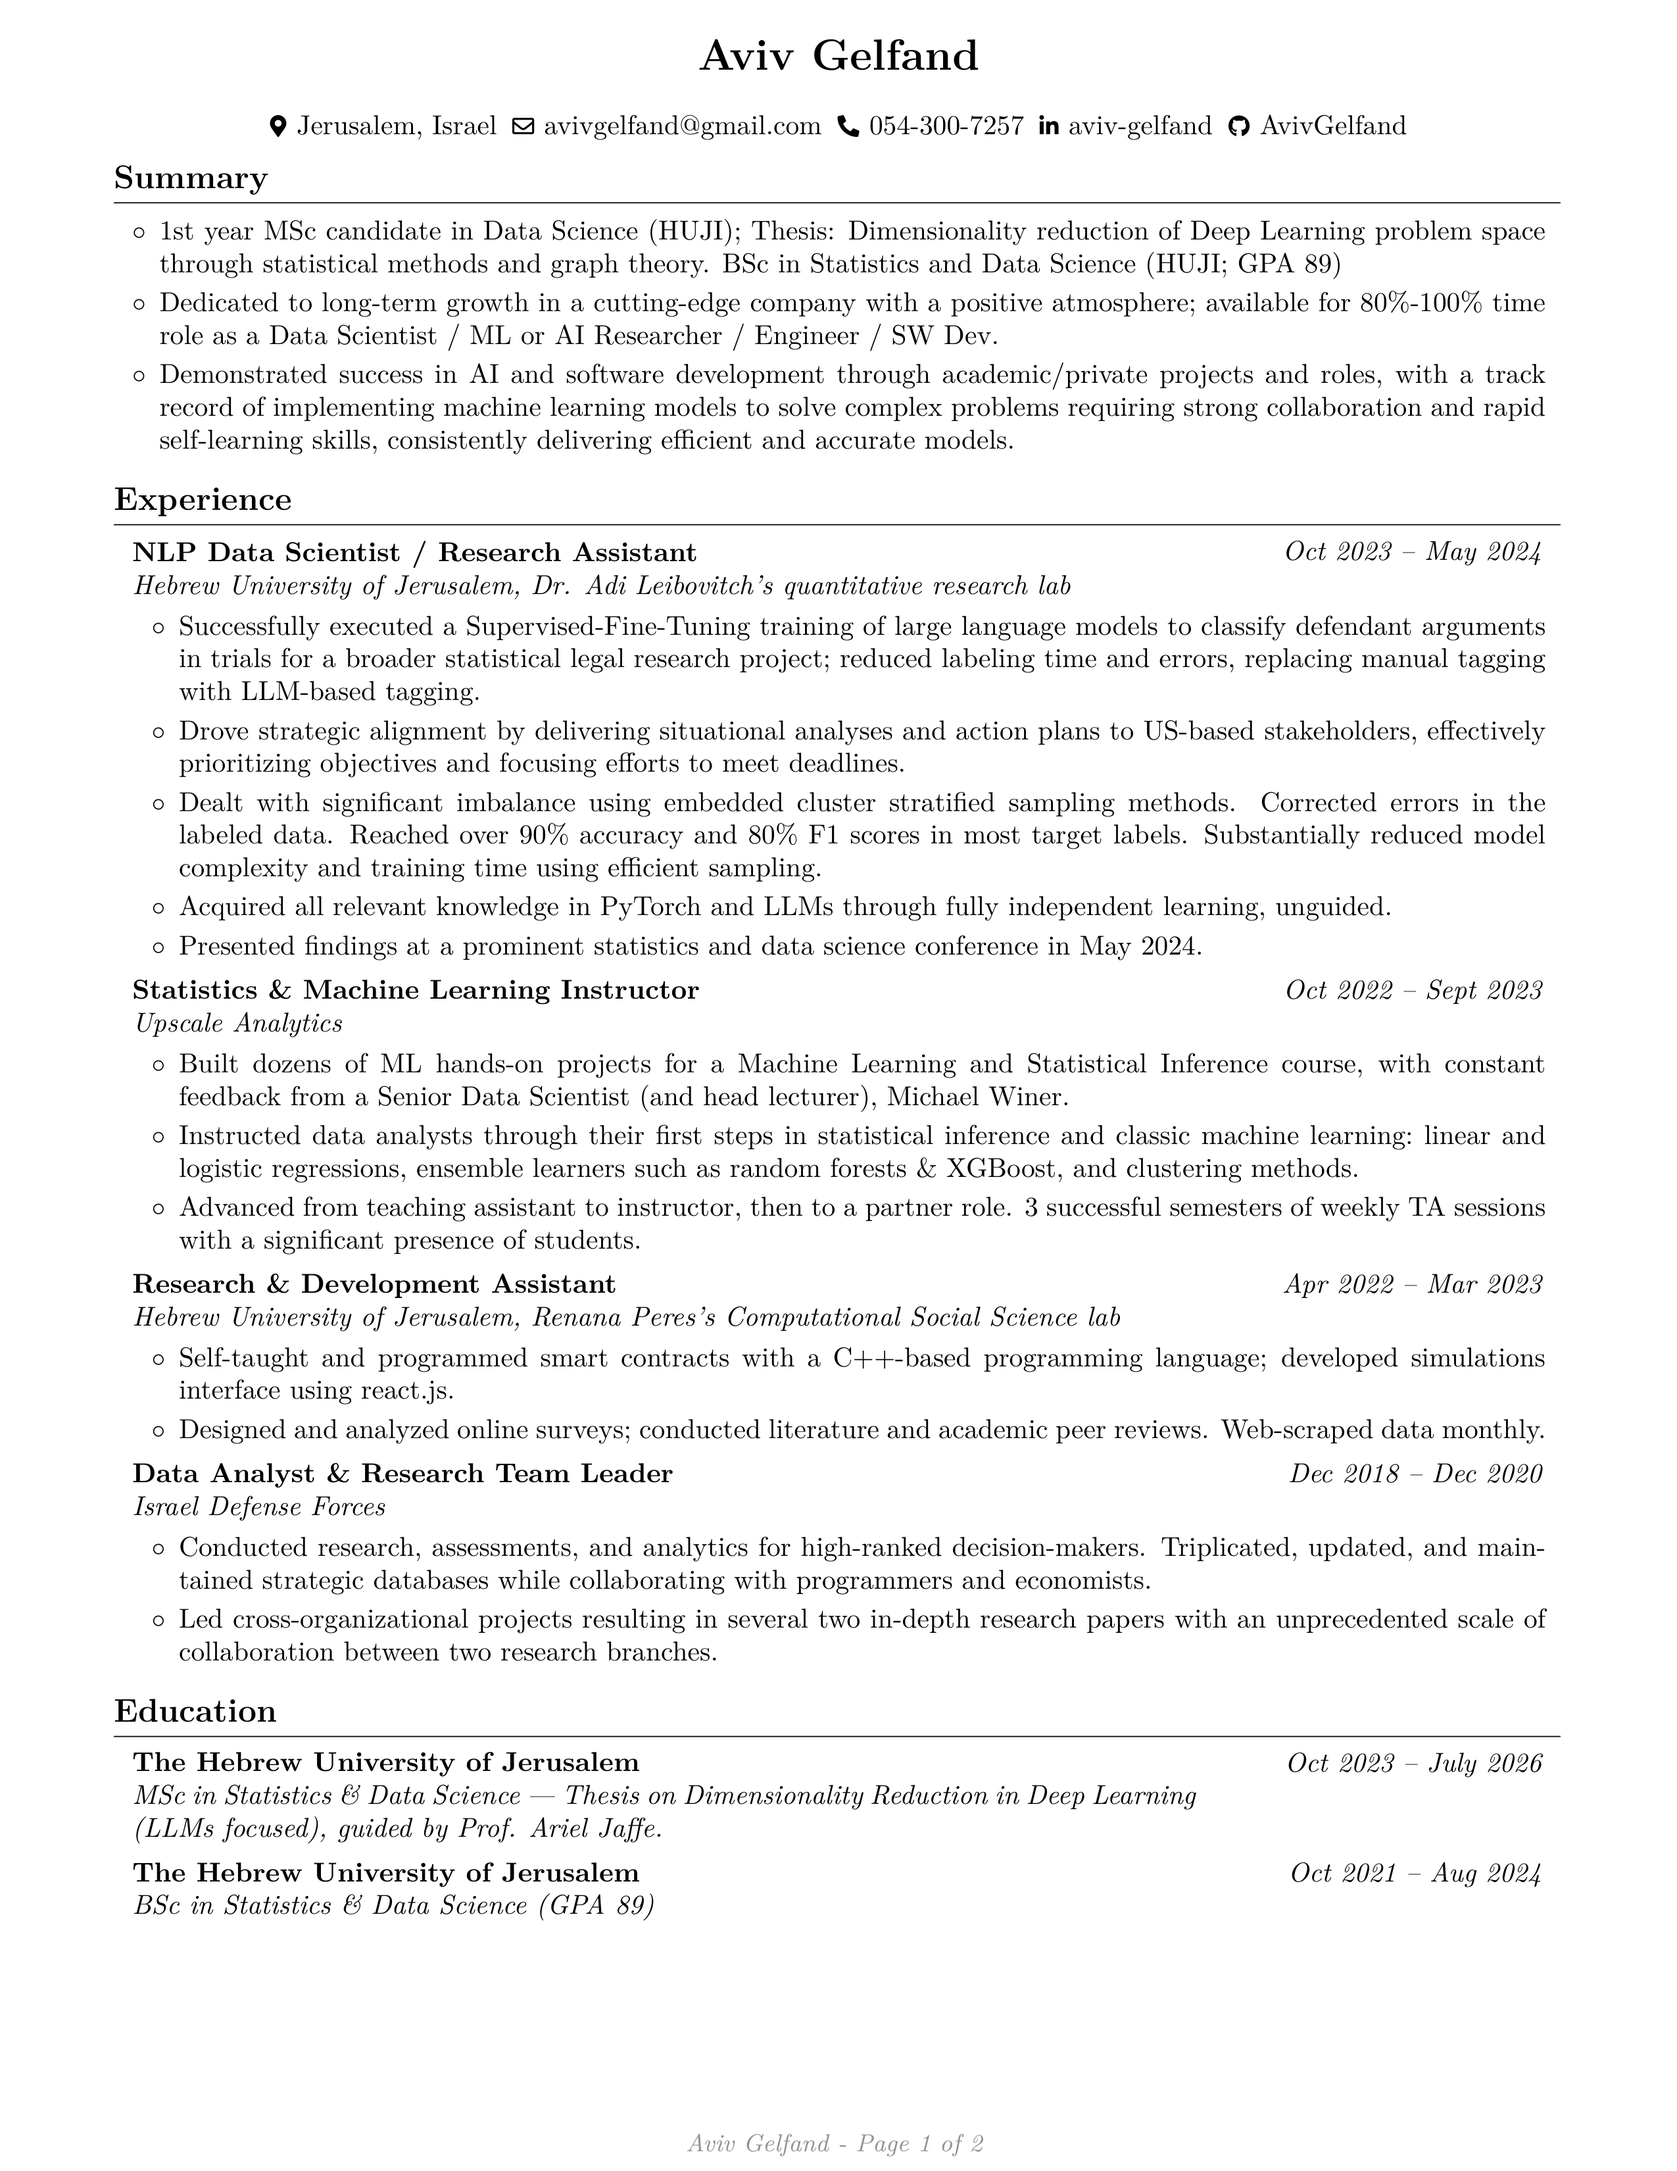
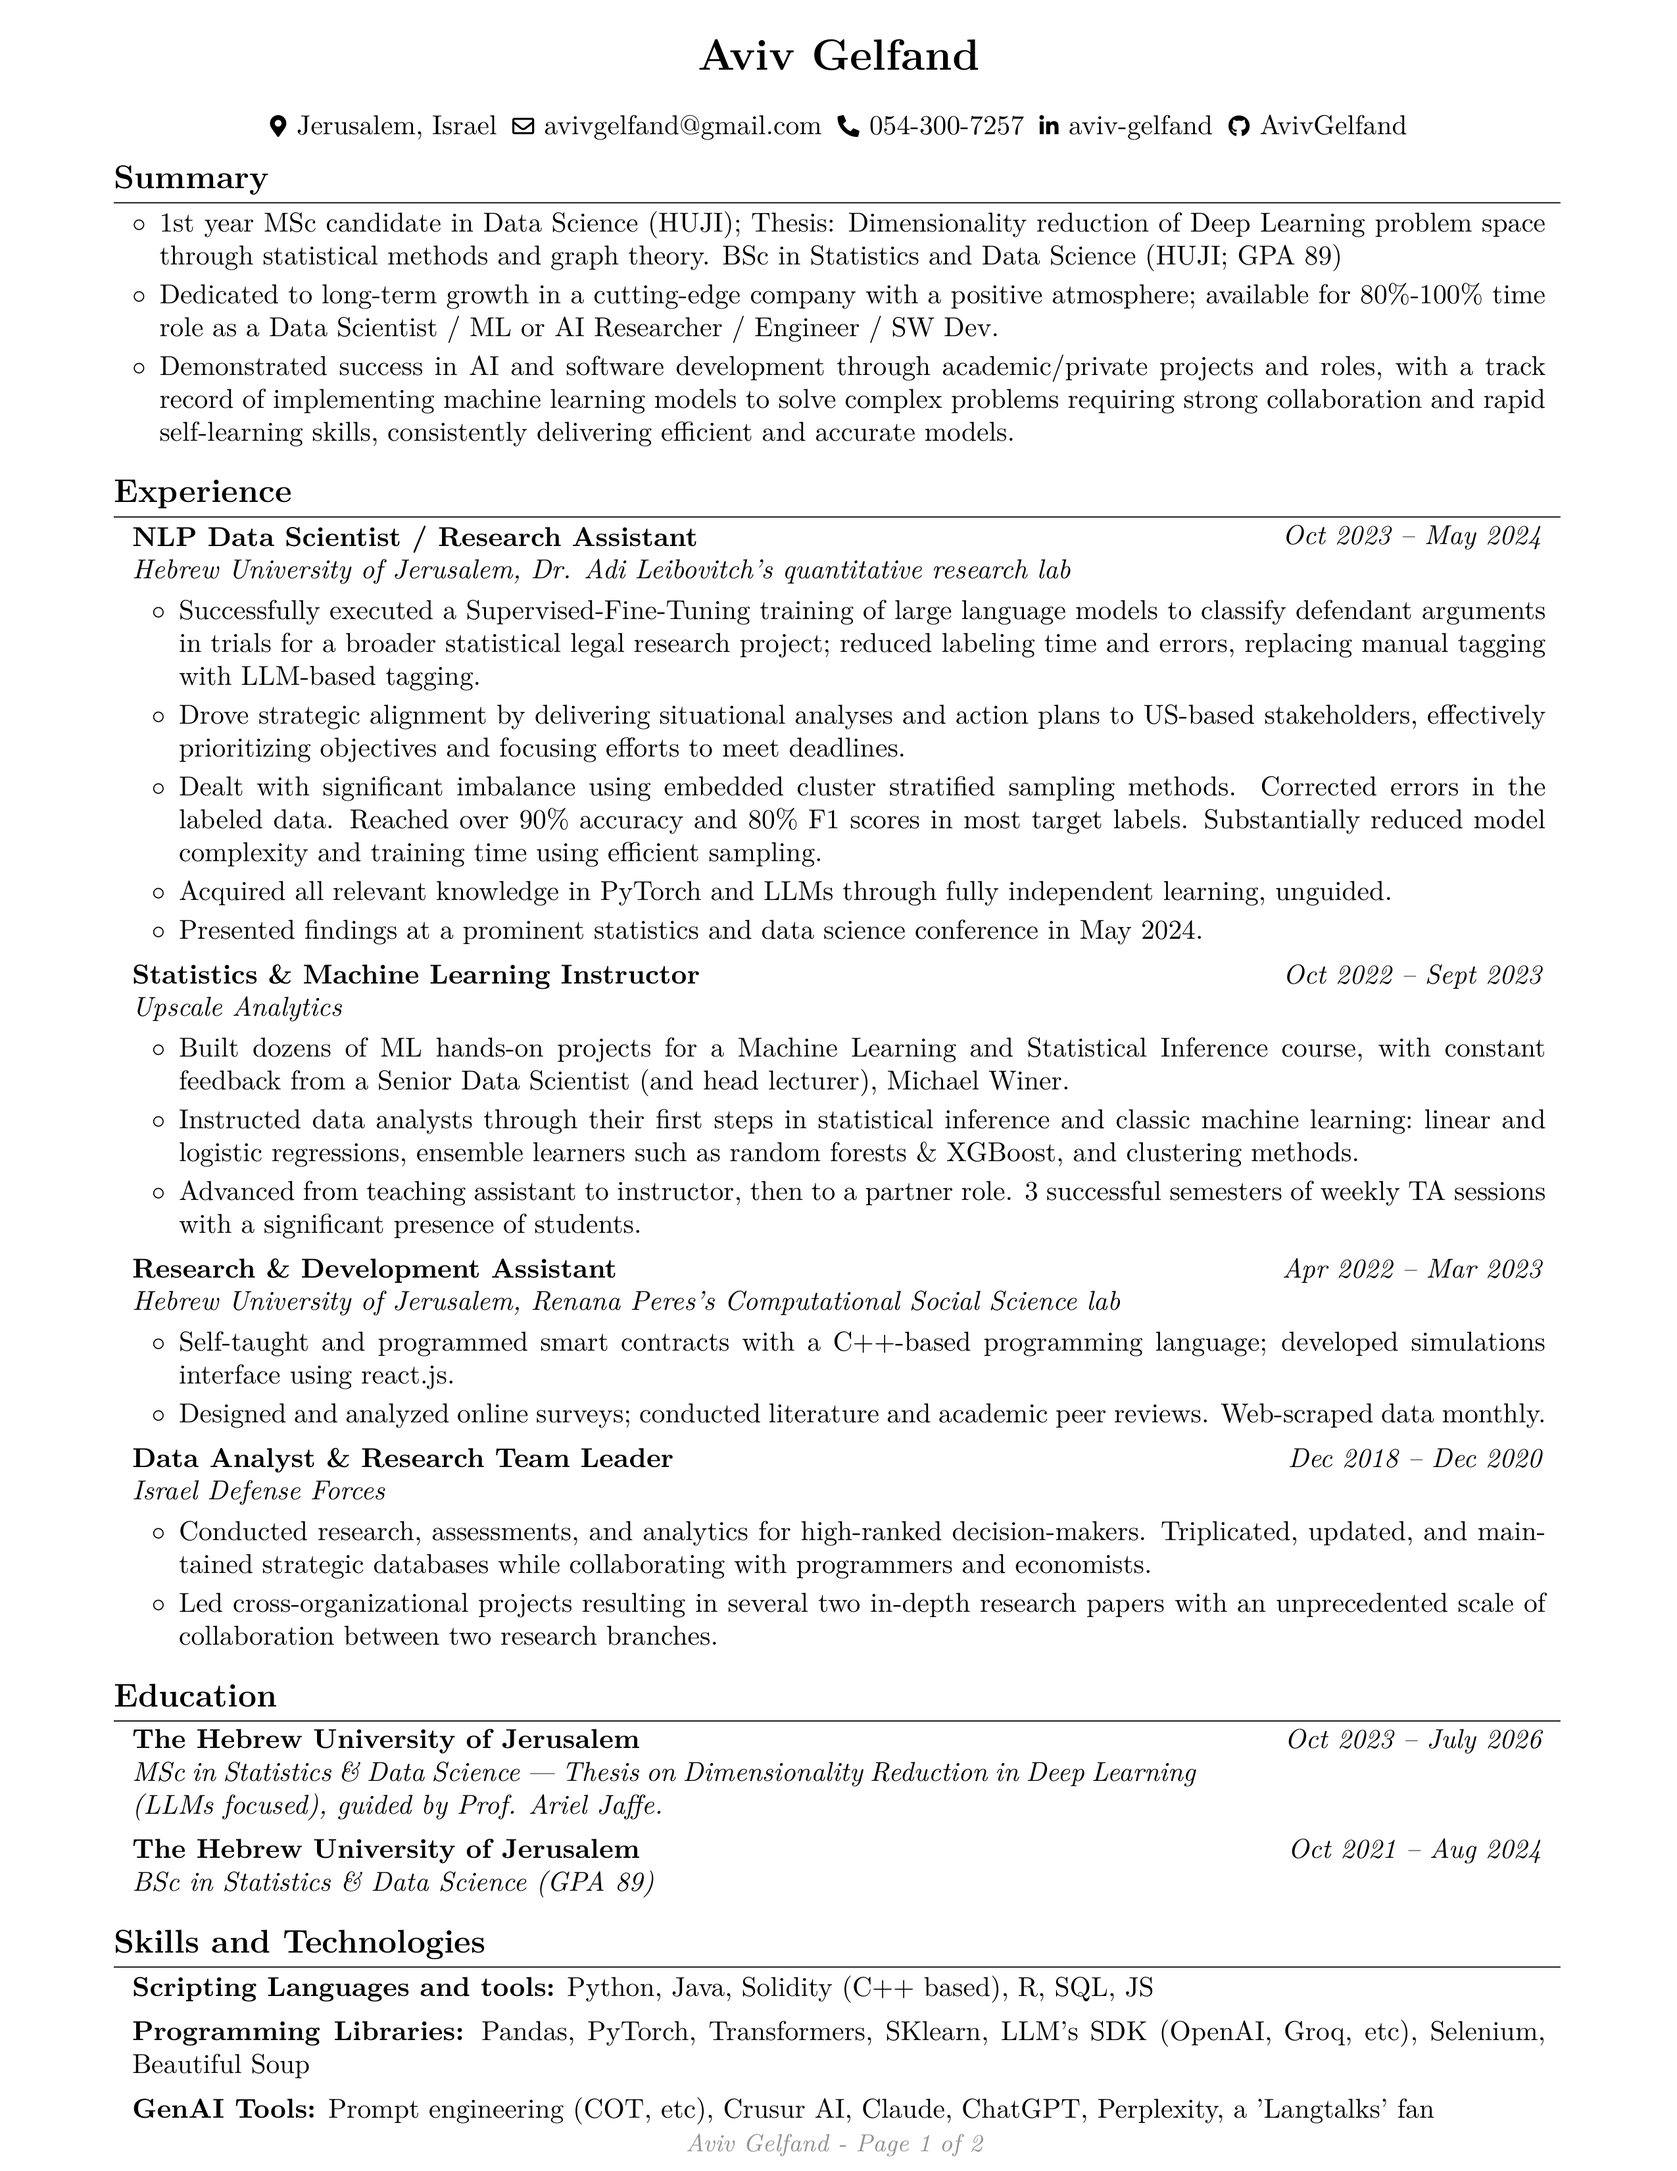
Render the latest CV

diff --git a/Aviv_Gelfand_CV.html b/Aviv_Gelfand_CV.html
@@ -88,10 +88,10 @@
         <ul>
         <li>Scripting Languages and tools: Python, Java, Solidity (C++ based), R, SQL, JS</li>
         <li>Programming Libraries: Pandas, PyTorch, Transformers, SKlearn, LLM's SDK (OpenAI, Groq, etc), Selenium, Beautiful Soup</li>
-        <li>GenAI: Prompt engineering (COT, etc), Crusur, Claude, ChatGPT, Perplexity, 'Langtalks' fan</li>
-        <li>ETL: Basic and complex Visualizations, Advanced Statistical Inference, Cleaning, Encoding / Embedding, Imputing</li>
+        <li>GenAI Tools: Prompt engineering (COT, etc), Crusur AI, Claude, ChatGPT, Perplexity, a 'Langtalks' fan</li>
+        <li>EDA &amp; ETL: Basic and complex Visualizations, Statistical Inference and modeling, Cleaning, Encoding / Embedding</li>
         <li>ML: Efficient Sampling, Feature Engineering, Parameters Optimization, Evaluation Metrics</li>
-        <li>NLP: Fine-Tuning open source LLMs, LORA, PEFT, text cleaning techniques with Regex and NLTK</li>
+        <li>NLP: Fine-Tuning open source LLMs, LORA, PEFT, text cleaning, Regex, NLTK</li>
         <li>CI/CD: GIT, Linux, SLURM Cluster system, GitHub workflows, shell scripts</li>
         <li>Big Data Frameworks: Big Query (well experienced in SQL), Data-Bricks, Apache Spark</li>
         </ul>
@@ -112,7 +112,7 @@
         <li><a href="https://github.com/AvivGelfand/Driver-Behavior-Detection-Using-Smartphone-Signals">GitHub Repo</a></li>
         <li>A Signal Detection project applying ML to identify risky driver behavior, based on academic publications and open source data-sets.</li>
         </ul>
-        <h2>Alfred - University Tasks Personal Asistant</h2>
+        <h2>Alfred - University Tasks Personal Assistant</h2>
         <ul>
         <li><a href="https://github.com/AvivGelfand/HUJI-Moodle-Bot">GitHub Repo</a></li>
         <li>A deployed personal assistant software that scrapes the Hebrew University Moodle Site and notifies me via Telegram bot about every change in task deadlines.</li>

diff --git a/Aviv_Gelfand_CV.tex b/Aviv_Gelfand_CV.tex
@@ -71,7 +71,7 @@
     0.3 cm
 }{
     % bottom space:
-    0.2 cm
+    0.1 cm
 } % section title spacing
 
 \renewcommand\labelitemi{$\circ$} % custom bullet points
@@ -335,13 +335,13 @@
         \vspace{0.15 cm}
 
         \begin{onecolentry}
-            \textbf{GenAI:} Prompt engineering (COT, etc), Crusur, Claude, ChatGPT, Perplexity, 'Langtalks' fan
+            \textbf{GenAI Tools:} Prompt engineering (COT, etc), Crusur AI, Claude, ChatGPT, Perplexity, a 'Langtalks' fan
         \end{onecolentry}
 
         \vspace{0.15 cm}
 
         \begin{onecolentry}
-            \textbf{ETL:} Basic and complex Visualizations, Advanced Statistical Inference, Cleaning, Encoding / Embedding, Imputing
+            \textbf{EDA \& ETL:} Basic and complex Visualizations, Statistical Inference and modeling, Cleaning, Encoding / Embedding
         \end{onecolentry}
 
         \vspace{0.15 cm}
@@ -353,7 +353,7 @@
         \vspace{0.15 cm}
 
         \begin{onecolentry}
-            \textbf{NLP:} Fine-Tuning open source LLMs, LORA, PEFT, text cleaning techniques with Regex and NLTK
+            \textbf{NLP:} Fine-Tuning open source LLMs, LORA, PEFT, text cleaning, Regex, NLTK
         \end{onecolentry}
 
         \vspace{0.15 cm}
@@ -431,7 +431,7 @@
             
             
         \textit{\href{https://github.com/AvivGelfand/HUJI-Moodle-Bot}{GitHub Repo}}}
-            \textbf{Alfred - University Tasks Personal Asistant}
+            \textbf{Alfred - University Tasks Personal Assistant}
         \end{twocolentry}
 
         \vspace{0.1 cm}

diff --git a/README.md b/README.md
@@ -58,10 +58,10 @@
 
 - Scripting Languages and tools: Python, Java, Solidity (C++ based), R, SQL, JS
 - Programming Libraries: Pandas, PyTorch, Transformers, SKlearn, LLM's SDK (OpenAI, Groq, etc), Selenium, Beautiful Soup
-- GenAI: Prompt engineering (COT, etc), Crusur, Claude, ChatGPT, Perplexity, 'Langtalks' fan
-- ETL: Basic and complex Visualizations, Advanced Statistical Inference, Cleaning, Encoding / Embedding, Imputing
+- GenAI Tools: Prompt engineering (COT, etc), Crusur AI, Claude, ChatGPT, Perplexity, a 'Langtalks' fan
+- EDA & ETL: Basic and complex Visualizations, Statistical Inference and modeling, Cleaning, Encoding / Embedding
 - ML: Efficient Sampling, Feature Engineering, Parameters Optimization, Evaluation Metrics
-- NLP: Fine-Tuning open source LLMs, LORA, PEFT, text cleaning techniques with Regex and NLTK
+- NLP: Fine-Tuning open source LLMs, LORA, PEFT, text cleaning, Regex, NLTK
 - CI/CD: GIT, Linux, SLURM Cluster system, GitHub workflows, shell scripts
 - Big Data Frameworks: Big Query (well experienced in SQL), Data-Bricks, Apache Spark
 # Notable Projects
@@ -82,7 +82,7 @@
 - [GitHub Repo](https://github.com/AvivGelfand/Driver-Behavior-Detection-Using-Smartphone-Signals)
 - A Signal Detection project applying ML to identify risky driver behavior, based on academic publications and open source data-sets.
 
-## Alfred - University Tasks Personal Asistant
+## Alfred - University Tasks Personal Assistant
 
 - [GitHub Repo](https://github.com/AvivGelfand/HUJI-Moodle-Bot)
 - A deployed personal assistant software that scrapes the Hebrew University Moodle Site and notifies me via Telegram bot about every change in task deadlines.
